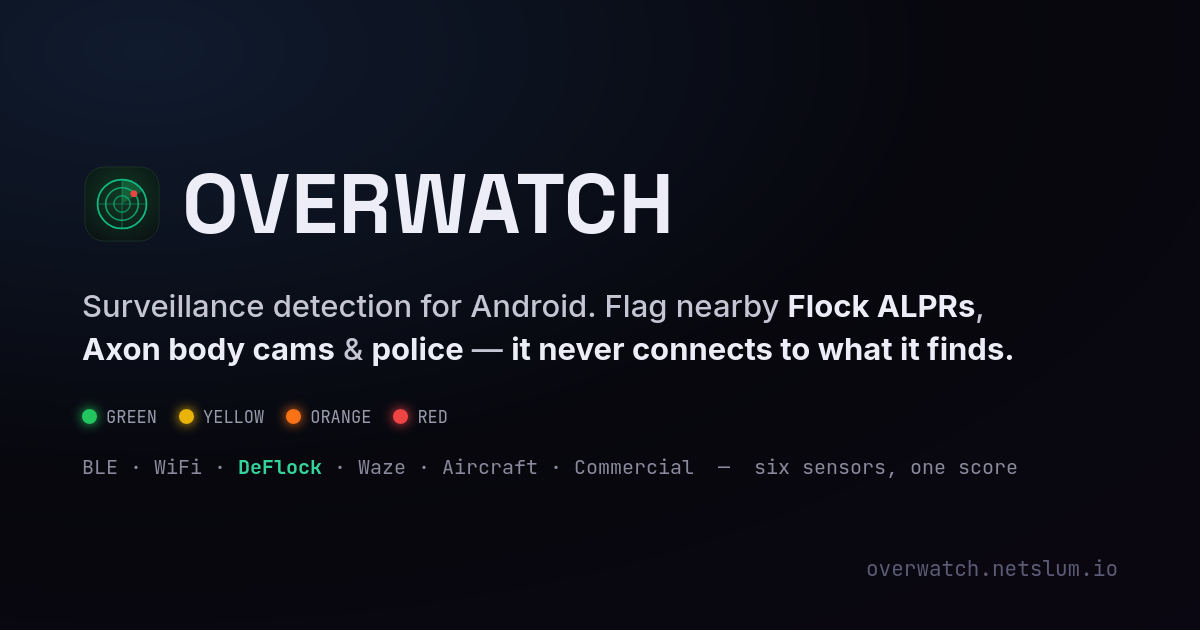
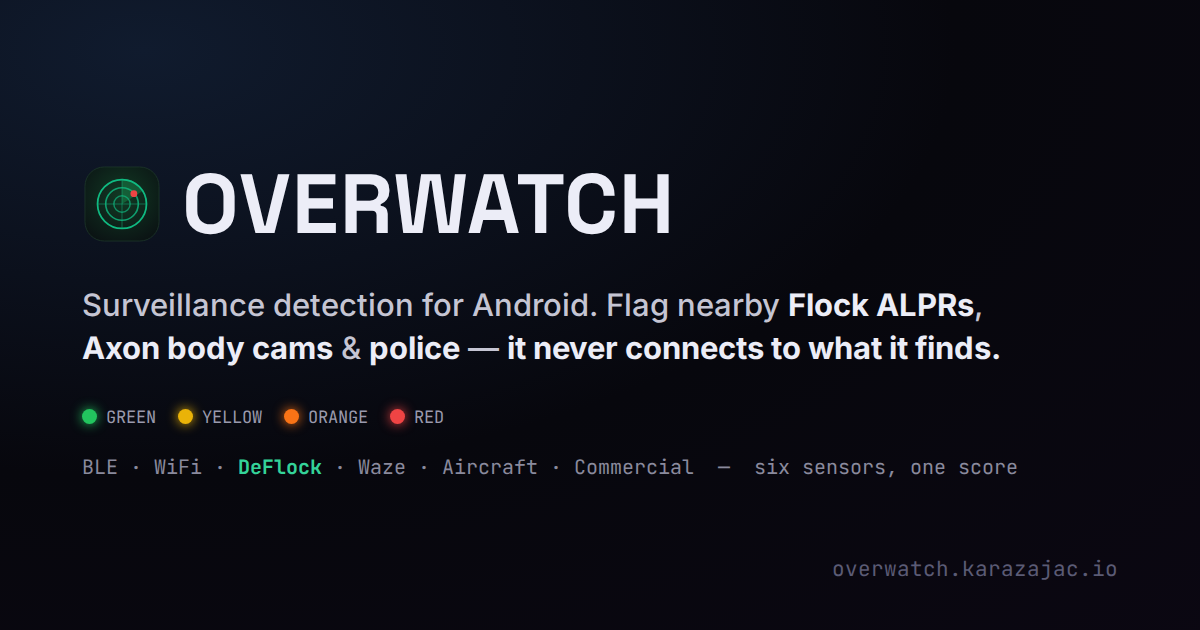
docs: the site moves to overwatch.karazajac.io
netslum.io is retired and its notes with it, so the footer's writeup link
is gone and its netslum.io link now points at karazajac.io's projects.
og.png is re-rendered from og-card.html with the new address.

Claude-Session: https://claude.ai/code/session_01RVNzQM5QypA73kLFWsm3ki

diff --git a/docs/index.html b/docs/index.html
@@ -8,12 +8,12 @@
 <meta property="og:title" content="OVERWATCH — surveillance detection">
 <meta property="og:description" content="Android app that flags nearby Flock ALPRs, Axon body cams, police aircraft and drones, attack tools and item trackers from BLE/WiFi scans, drone Remote ID, the DeFlock map, Waze police reports and ADS-B. It never connects to, pairs with, or jams anything it detects.">
 <meta property="og:type" content="website">
-<meta property="og:url" content="https://overwatch.netslum.io/">
-<meta property="og:image" content="https://overwatch.netslum.io/og.png">
+<meta property="og:url" content="https://overwatch.karazajac.io/">
+<meta property="og:image" content="https://overwatch.karazajac.io/og.png">
 <meta property="og:image:width" content="1200">
 <meta property="og:image:height" content="630">
 <meta name="twitter:card" content="summary_large_image">
-<meta name="twitter:image" content="https://overwatch.netslum.io/og.png">
+<meta name="twitter:image" content="https://overwatch.karazajac.io/og.png">
 <meta name="theme-color" content="#07070d">
 <link rel="icon" type="image/svg+xml" href="logo.svg">
 
@@ -554,8 +554,7 @@
     <div class="footer-col">
       <h4>More</h4>
       <ul>
-        <li><a href="https://netslum.io/notes/overwatch-passive-counter-surveillance/">The writeup on netslum.io</a> (updated for v0.5.19)</li>
-        <li><a href="https://netslum.io">netslum.io</a></li>
+        <li><a href="https://karazajac.io/projects/">karazajac.io</a></li>
       </ul>
     </div>
   </div>

diff --git a/docs/og-card.html b/docs/og-card.html
@@ -85,5 +85,5 @@
     </div>
     <div class="sources">BLE · WiFi · <b>DeFlock</b> · Waze · Aircraft · Commercial &nbsp;—&nbsp; six sensors, one score</div>
   </div>
-  <div class="url">overwatch.netslum.io</div>
+  <div class="url">overwatch.karazajac.io</div>
 </body></html>

diff --git a/README.md b/README.md
@@ -22,7 +22,7 @@ ID, Raven, the Penguin pack's maker ID and the online sources carry on.
 > [SOURCES.md §5.4](SOURCES.md)). The Axon advertise/fuzz code from one of
 > the reference projects is intentionally excluded.
 
-Website: **[overwatch.netslum.io](https://overwatch.netslum.io)**  ·  Latest release: [v0.6.0](https://github.com/KaraZajac/OVERWATCH/releases) (debug-signed APK, sideload).
+Website: **[overwatch.karazajac.io](https://overwatch.karazajac.io)**  ·  Latest release: [v0.6.0](https://github.com/KaraZajac/OVERWATCH/releases) (debug-signed APK, sideload).
 
 ---
 
